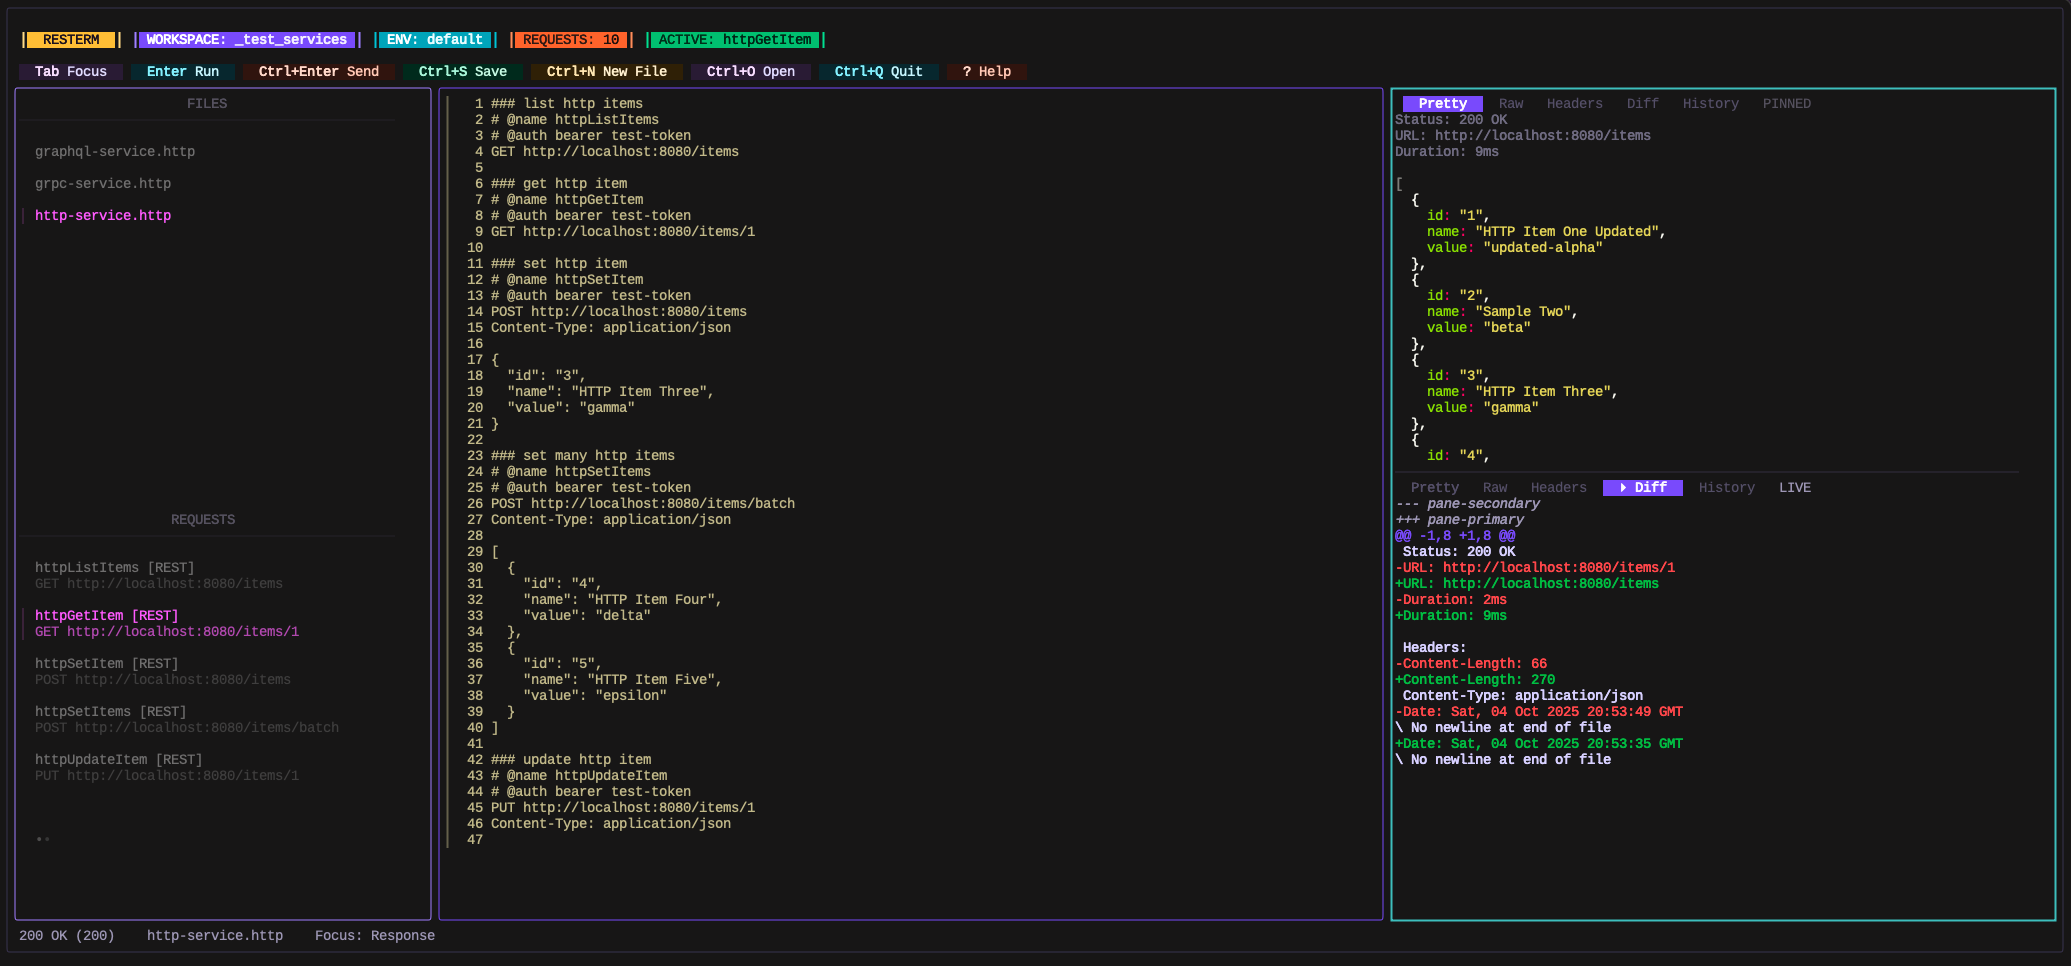
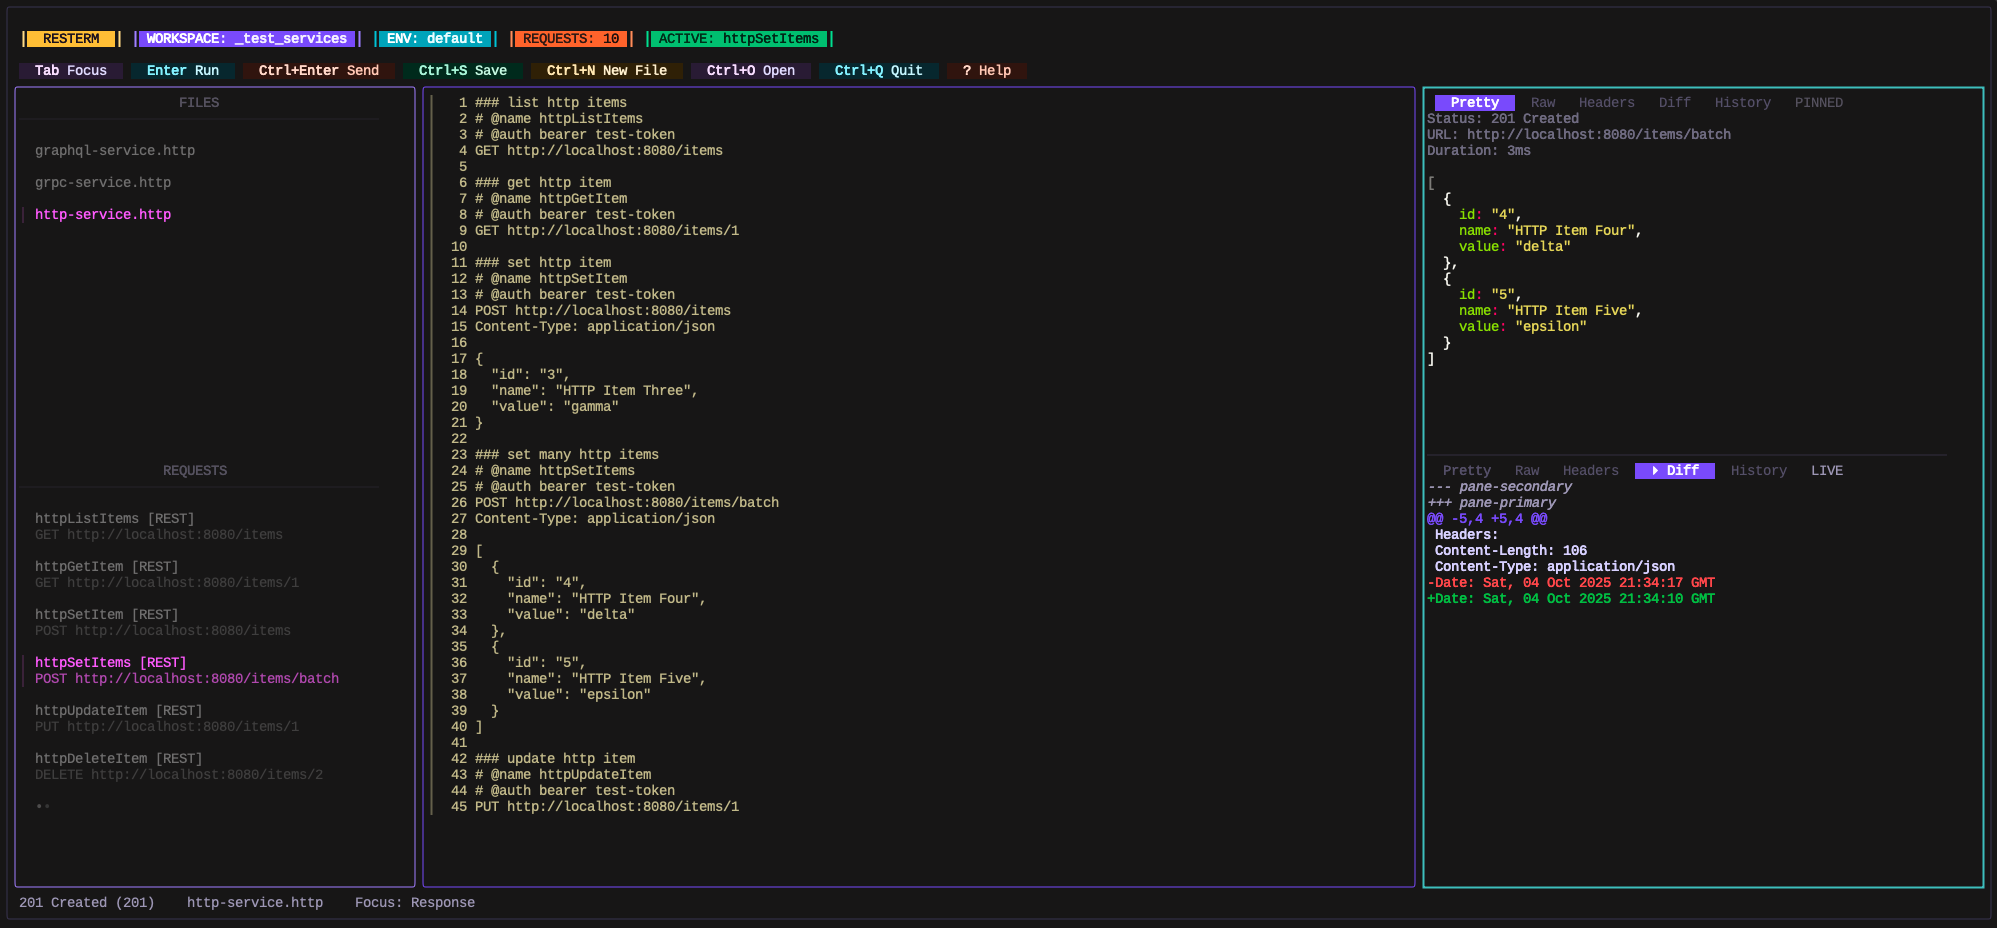
feat: normalize diff inputs and remove noisy newline warnings   - append a trailing newline when rendering Pretty/Raw/Headers snapshots, and when feeding them into the diff engine, so go-udiff no longer emits “\ No newline at end of file”   - apply the same normalization to the headers fallback (“<n

Changed region(s): [[0.0, 0.0, 1.0, 1.0], [0.0, 0.5, 0.1552, 0.8438], [0.0, 0.1562, 0.0931, 0.25]]

diff --git a/internal/ui/response_split.go b/internal/ui/response_split.go
@@ -254,14 +254,14 @@ func (m *Model) paneContentForTab(id responsePaneID, tab responseTab) (string, r
 
 	switch tab {
 	case responseTabPretty:
-		return snapshot.pretty, tab
+		return ensureTrailingNewline(snapshot.pretty), tab
 	case responseTabRaw:
-		return snapshot.raw, tab
+		return ensureTrailingNewline(snapshot.raw), tab
 	case responseTabHeaders:
 		if snapshot.headers == "" {
-			return "<no headers>", tab
+			return "<no headers>\n", tab
 		}
-		return snapshot.headers, tab
+		return ensureTrailingNewline(snapshot.headers), tab
 	case responseTabDiff:
 		baseTab := pane.ensureContentTab()
 		if diff, ok := m.computeDiffFor(id, baseTab); ok {
@@ -300,6 +300,9 @@ func (m *Model) computeDiffFor(id responsePaneID, baseTab responseTab) (string, 
 		leftContent = left.pretty
 		rightContent = right.pretty
 	}
+
+	leftContent = ensureTrailingNewline(leftContent)
+	rightContent = ensureTrailingNewline(rightContent)
 
 	if leftContent == rightContent {
 		return "Responses are identical", true
@@ -343,6 +346,16 @@ func colorizeDiff(diff string) string {
 		}
 	}
 	return builder.String()
+}
+
+func ensureTrailingNewline(content string) string {
+	if content == "" {
+		return "\n"
+	}
+	if strings.HasSuffix(content, "\n") {
+		return content
+	}
+	return content + "\n"
 }
 
 func (m *Model) ensurePaneActiveTabValid(pane *responsePaneState) {
